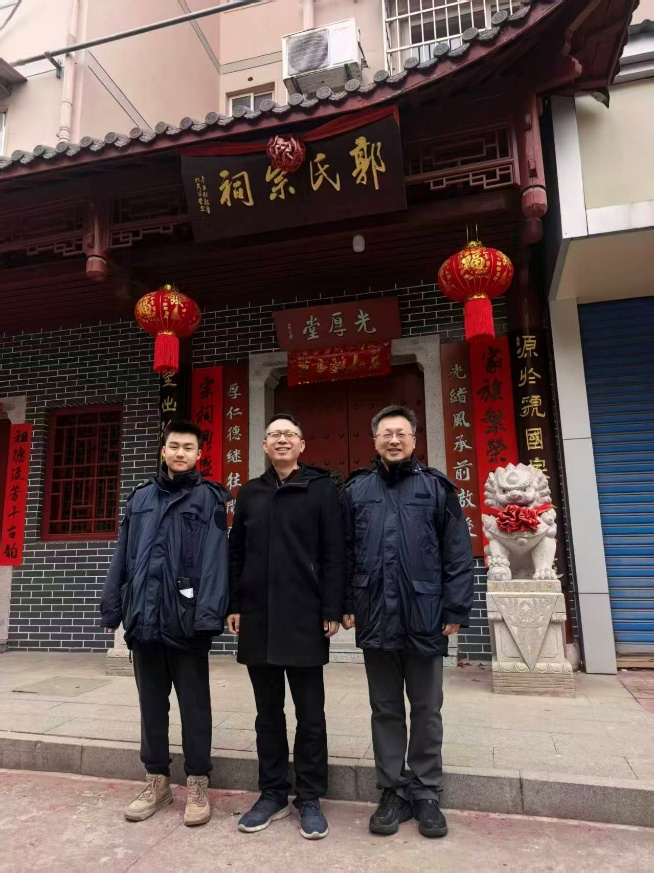
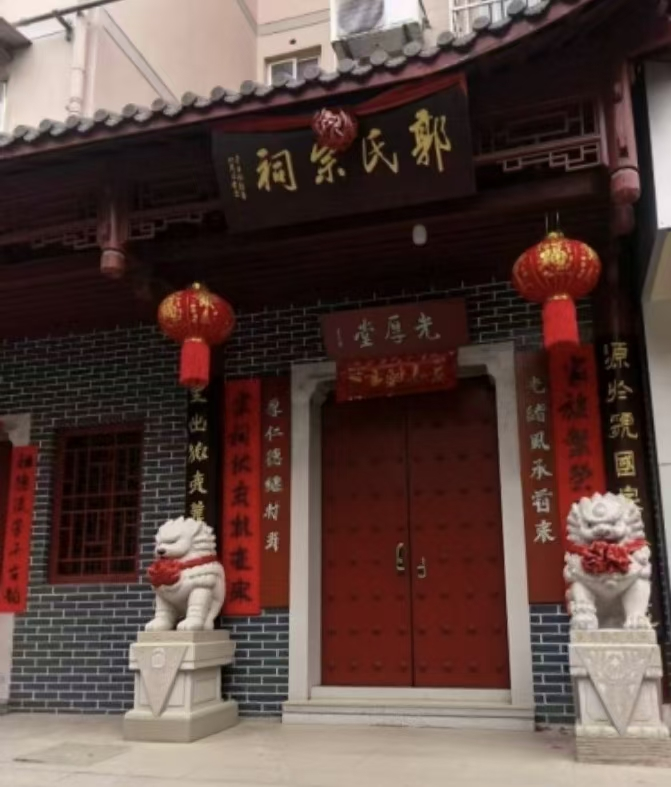
修复郭氏祠堂图片并重新生成

diff --git a/public/citang/guoshi-citang/index.html b/public/citang/guoshi-citang/index.html
@@ -84,7 +84,7 @@
 12. 您认为祠堂在现有功能基础上，面临怎样的发展问题，可以新增哪些功能或活动（如改善环境、功能转变、挖掘文化IP），推动祠堂未来的延续与发展？ 陈瑜对这个问题没有给出回答，或许这表示她比较认可现在的模式和祠堂的功能。 郭皓帆则认为，祠堂要想有未来，需要把它的价值——在这个时代（商业社会）体现为商业价值，捡起来。需要资本以及企业的介入，但具体模式他表示他并不清楚，但他认为广东已经有人在做类似的模式了。
 13. 您觉得祠堂存在的价值是什么？（乡村发展，乡村凝聚力，文化传承） 陈瑜认为祠堂存在具有文化传承的意义，这里更多指对祖先的认识与祭拜，也就是族谱的功能。 郭皓帆认为，祠堂对年轻人没有任何价值，对老年人可能有一种归属感。但通过对郭能俊和郭御风的采访，显然光厚堂的价值也仅限于聚齐一家人，增强家庭的凝聚力。
 14. （对老人）考虑到年轻人大多在外务工，您觉得祠堂未来能一直传承下去吗？您对于年轻人传承祠堂文化的期望是什么？/ (对年轻人)作为年轻人，您有没有意愿多回乡，多参加些祠堂活动？ 郭皓帆认为，祠堂可以一直传承下去，只不过规模会越来越小。不过，他也认为，只要祠堂转型成功（融入商业社会），祠堂肯定能一直存续。他表示，他并不愿意回老家参加祠堂活动。不过郭御风每年都会带郭皓帆回老家，也显示出了作为父亲的态度。 陈瑜则认为祠堂不一定能传承下去。她表示自己说自己忙不去祠堂只是一个借口，从自己的父辈到自己的孩子，这三代人的变动太大了。自己这些年走南闯北，和亲戚朋友联系甚少。她认为延续一个祠堂不如建一个微信群来得实在。
-15. 您觉得未来祠堂该怎样发展，你对于祠堂的功能作用有什么期望，您是否愿意为祠堂的修缮、传承出钱或出力吗？（您觉得您在祠堂未来发展中可以做些什么？） 郭皓帆认为祠堂未来不会有什么大的发展，也并不希望它能够发挥什么与现在不同的作用。不过，如果有任务交到他手上，他愿意承担这份责任的，也会把交给自己的任务认真完成。大体来说，就是他的长辈在做什么，他就会做些什么。陈瑜对此的回答差不多。"><meta property="og:locale" content="zh_cn"><meta property="og:type" content="article"><meta property="article:section" content="citang"><meta property="article:published_time" content="2026-11-14T00:00:00+00:00"><meta property="article:modified_time" content="2026-11-14T00:00:00+00:00"><meta property="og:image" content="https://citang-database.netlify.app/images/guoshi-v2.png"><meta name=twitter:card content="summary_large_image"><meta name=twitter:image content="https://citang-database.netlify.app/images/guoshi-v2.png"><meta name=twitter:title content="郭氏祠堂（光厚堂）"><meta name=twitter:description content="祠堂简介 光厚堂并无久远的历史，也并无重修的经历，于2021年修建完成。该祠堂由郭能俊主持，利用郭氏族谱（2011年新编）中的家族资源捐款修建而成。
+15. 您觉得未来祠堂该怎样发展，你对于祠堂的功能作用有什么期望，您是否愿意为祠堂的修缮、传承出钱或出力吗？（您觉得您在祠堂未来发展中可以做些什么？） 郭皓帆认为祠堂未来不会有什么大的发展，也并不希望它能够发挥什么与现在不同的作用。不过，如果有任务交到他手上，他愿意承担这份责任的，也会把交给自己的任务认真完成。大体来说，就是他的长辈在做什么，他就会做些什么。陈瑜对此的回答差不多。"><meta property="og:locale" content="zh_cn"><meta property="og:type" content="article"><meta property="article:section" content="citang"><meta property="article:published_time" content="2026-11-14T00:00:00+00:00"><meta property="article:modified_time" content="2026-11-14T00:00:00+00:00"><meta property="og:image" content="https://citang-database.netlify.app/images/guoshi-full.png"><meta name=twitter:card content="summary_large_image"><meta name=twitter:image content="https://citang-database.netlify.app/images/guoshi-full.png"><meta name=twitter:title content="郭氏祠堂（光厚堂）"><meta name=twitter:description content="祠堂简介 光厚堂并无久远的历史，也并无重修的经历，于2021年修建完成。该祠堂由郭能俊主持，利用郭氏族谱（2011年新编）中的家族资源捐款修建而成。
 祠堂修建的主要原因是由于家族庞大，过年拜年过于繁琐。为了在加强家族联系的同时，节省不必要的麻烦，家族成员决定修建光厚堂。祠堂选址在路边小区底商处，买下两个底商进行改造。在光厚堂修建后，周边陆续有吴家、罗家等家族祠堂修建。
 目前，家族成员在重要节日齐聚一堂，一方面进行放鞭炮、祭拜先祖郭子仪等活动，更重要的是加强家族成员间的联系，增强家族的凝聚力。祠堂目前主要功能是把家族人聚在一起，并无乡村议事、公共管理等功能。
 建筑与历史变迁 时间 事件 2021年 由郭能俊主持，动用族谱资源捐款，买下两个底商改造修建完成 2021年后 周边陆续有吴家、罗家等家族祠堂修建 采访记录 采访一 时间：2026年2月26日
@@ -105,12 +105,12 @@
 12. 您认为祠堂在现有功能基础上，面临怎样的发展问题，可以新增哪些功能或活动（如改善环境、功能转变、挖掘文化IP），推动祠堂未来的延续与发展？ 陈瑜对这个问题没有给出回答，或许这表示她比较认可现在的模式和祠堂的功能。 郭皓帆则认为，祠堂要想有未来，需要把它的价值——在这个时代（商业社会）体现为商业价值，捡起来。需要资本以及企业的介入，但具体模式他表示他并不清楚，但他认为广东已经有人在做类似的模式了。
 13. 您觉得祠堂存在的价值是什么？（乡村发展，乡村凝聚力，文化传承） 陈瑜认为祠堂存在具有文化传承的意义，这里更多指对祖先的认识与祭拜，也就是族谱的功能。 郭皓帆认为，祠堂对年轻人没有任何价值，对老年人可能有一种归属感。但通过对郭能俊和郭御风的采访，显然光厚堂的价值也仅限于聚齐一家人，增强家庭的凝聚力。
 14. （对老人）考虑到年轻人大多在外务工，您觉得祠堂未来能一直传承下去吗？您对于年轻人传承祠堂文化的期望是什么？/ (对年轻人)作为年轻人，您有没有意愿多回乡，多参加些祠堂活动？ 郭皓帆认为，祠堂可以一直传承下去，只不过规模会越来越小。不过，他也认为，只要祠堂转型成功（融入商业社会），祠堂肯定能一直存续。他表示，他并不愿意回老家参加祠堂活动。不过郭御风每年都会带郭皓帆回老家，也显示出了作为父亲的态度。 陈瑜则认为祠堂不一定能传承下去。她表示自己说自己忙不去祠堂只是一个借口，从自己的父辈到自己的孩子，这三代人的变动太大了。自己这些年走南闯北，和亲戚朋友联系甚少。她认为延续一个祠堂不如建一个微信群来得实在。
-15. 您觉得未来祠堂该怎样发展，你对于祠堂的功能作用有什么期望，您是否愿意为祠堂的修缮、传承出钱或出力吗？（您觉得您在祠堂未来发展中可以做些什么？） 郭皓帆认为祠堂未来不会有什么大的发展，也并不希望它能够发挥什么与现在不同的作用。不过，如果有任务交到他手上，他愿意承担这份责任的，也会把交给自己的任务认真完成。大体来说，就是他的长辈在做什么，他就会做些什么。陈瑜对此的回答差不多。"><script type=application/ld+json>{"@context":"https://schema.org","@type":"BreadcrumbList","itemListElement":[{"@type":"ListItem","position":1,"name":"Citangs","item":"https://citang-database.netlify.app/citang/"},{"@type":"ListItem","position":2,"name":"郭氏祠堂（光厚堂）","item":"https://citang-database.netlify.app/citang/guoshi-citang/"}]}</script><script type=application/ld+json>{"@context":"https://schema.org","@type":"BlogPosting","headline":"郭氏祠堂（光厚堂）","name":"郭氏祠堂（光厚堂）","description":"祠堂简介 光厚堂并无久远的历史，也并无重修的经历，于2021年修建完成。该祠堂由郭能俊主持，利用郭氏族谱（2011年新编）中的家族资源捐款修建而成。\n祠堂修建的主要原因是由于家族庞大，过年拜年过于繁琐。为了在加强家族联系的同时，节省不必要的麻烦，家族成员决定修建光厚堂。祠堂选址在路边小区底商处，买下两个底商进行改造。在光厚堂修建后，周边陆续有吴家、罗家等家族祠堂修建。\n目前，家族成员在重要节日齐聚一堂，一方面进行放鞭炮、祭拜先祖郭子仪等活动，更重要的是加强家族成员间的联系，增强家族的凝聚力。祠堂目前主要功能是把家族人聚在一起，并无乡村议事、公共管理等功能。\n建筑与历史变迁 时间 事件 2021年 由郭能俊主持，动用族谱资源捐款，买下两个底商改造修建完成 2021年后 周边陆续有吴家、罗家等家族祠堂修建 采访记录 采访一 时间：2026年2月26日\n地点：江西省九江市郭氏祠堂（光厚堂）\n采访者：郭雨乐\n受访者：郭能俊（祖父）、郭御风（父亲）、郭皓帆（孩子）、陈瑜（母亲）一家三代\n1. 您对这个祠堂的修建历史了解多少？（是否了解它的修建背景，修建时间，由谁主持修建，资金来源，是否有相关传说或老辈人口述记载？） 郭御风表示，祠堂修建主要是由于家族庞大，过年拜年过于繁琐，为了在加强家族联系的同时，节省不必要的麻烦，修建光厚堂。当时向民政报备，环节并不复杂，买下两个底商改造比较顺利。 郭能俊、郭御风父子对于这部分历史非常了解，在介绍时非常热情，希望家族的声望能够远扬。但郭皓帆对这一部分历史却不很了解，甚至比较抵触过年回老家的繁琐。在他的印象里，只有每年零星的几次祠堂祭祖活动，对于祠堂的修建资金以及修建原因等问题，可以说是一无所知。有趣的是，在采访过程中，年龄尚小的郭皓帆的表弟对家族历史表现出了浓厚的兴趣，但不知是因为他年龄尚小还是因为他来自外姓，郭能俊并不打算向他介绍郭家历史。\n2. 您了解这座祠堂的历史吗？是听他人讲述，还是通过其他渠道（书籍、网络等）知晓的？ （同第一题，长辈非常了解并主持修建，郭皓帆基本不了解）\n3. 早年祠堂的建筑原貌（布局、装饰等）及内部规矩是怎样的？ （光厚堂为2021年新建底商改造，无早年原貌）\n4. 这个祠堂过去功能是什么？主要会举行什么活动，（比如祭祖、族里的红白事），有之前办但现在不办了的活动吗？（以及为什么不办了呢）有没有让您记了一辈子的热闹场景或难忘的事儿？（祠堂活动带给你的最深刻文化记忆是什么？） （新建祠堂，无过去活动）\n5. 这个祠堂经历了怎样的变迁，是否有挪作他用（祠堂有没有被改成仓库、学堂等其他用途的情况），重修（现在祠堂的建筑外观、内部设施与以前比有什么变化）的情况？ 早些年，现在宗祠的所在地叫“郭家湾”，是郭姓聚居地。但随着时间的推移和改革开放等政策的颁布，人们已经分散在九江市的各个地区甚至外地。买下底商改造为祠堂后，周边也陆续建起了其他家族的祠堂。\n6. 目前祠堂还会办哪些活动？比如祭祖、节日聚会等，大概多久办一次？您平时愿意参与祠堂活动吗？ 祠堂目前仅在过年期间举办祭祖活动，但实际上的、更重要的目的是把一大家族的人聚在一起庆祝新年，进行放鞭炮、祭拜先祖郭子仪等活动。 对于郭能俊、郭御风父子，他们是很乐意参与的，实际上也是他们二位主持的祠堂修建和这些活动。但对于郭皓帆，对参与这些活动兴趣不大，更多的是被其父亲强迫参加。\n7. 祠堂目前承担着怎样的功能？祠堂在乡村集体议事、邻里关系联结、公共事务协调中的作用发生了哪些变化？现有保留的功能，对村民生活仍有哪些实际价值？ 祠堂目前主要功能是把家族人聚在一起，举行祭祖活动。除此之外，并无乡村议事、公共管理等功能。因为人们已经分散在各个地区甚至外地，所以现在祠堂并不存在对村民生活的价值，而只是对郭姓家族起到增强凝聚力的作用。\n8. 您是否了解祠堂的管理模式和条规？（由谁主持管理，宗祠规定） 祠堂的公约张贴在祠堂大门旁，内容除了对祠堂的物品保管、用电安全、清洁卫生等琐碎规定外，还有对宗亲过世设立灵位的规定。对于祠堂的日常管理，采用分月排班的方式，即每月由一名宗族成员进行管理。排班表张贴在祠堂内部。 值得注意的是，负责管理祠堂的均为老年人，这与年轻人大多在外务工有关。对这些信息，家族成员的了解情况与上面大同小异，郭皓帆仍几乎不了解。\n9. 您觉得祠堂对你来说，只是个宗族建筑，还是有着特别的意义？（有没有家族归属感、认同感，是否愿意主动去了解祠堂） 对于郭能俊和郭御风父子，他们很乐意参与并主持活动，希望家族声望远扬。而对于郭皓帆，则认为他并无归属感，主要源于从小在长沙、天津等多地上学，不止祠堂，乃至家乡他都并无归属感。对于祠堂本身他也没有兴趣进行了解。\n10. （对于管理人员，也可以问其他群体）祠堂目前仍有部分功能在运转，日常的基础维护（如建筑简易修缮、环境清理）、残留功能的组织由哪些主体负责？村里不同年龄群体参与祠堂相关事务的比例及形式（如特定活动参与、零星协助）如何？ 郭能俊表示，因为花销很小，所以并没有什么硬性规定。日常的清理和修缮主要由每个月的值班人员负责。由于值班人员均为老年群体，祠堂事务自然老年群体参与较多。\n11. 您觉得现在年轻人很少关注祠堂，对家史、族规不了解，主要是没兴趣、缺乏传播渠道，还是其他原因？ 陈瑜认为现在年轻人是因为没有兴趣才不关注祠堂。 郭皓帆则给出了相对更深层次的原因，他表示这源自于家族观念不适合年轻人的生活。对年轻人来说，这是没有价值的，且仅具有象征意义。\n12. 您认为祠堂在现有功能基础上，面临怎样的发展问题，可以新增哪些功能或活动（如改善环境、功能转变、挖掘文化IP），推动祠堂未来的延续与发展？ 陈瑜对这个问题没有给出回答，或许这表示她比较认可现在的模式和祠堂的功能。 郭皓帆则认为，祠堂要想有未来，需要把它的价值——在这个时代（商业社会）体现为商业价值，捡起来。需要资本以及企业的介入，但具体模式他表示他并不清楚，但他认为广东已经有人在做类似的模式了。\n13. 您觉得祠堂存在的价值是什么？（乡村发展，乡村凝聚力，文化传承） 陈瑜认为祠堂存在具有文化传承的意义，这里更多指对祖先的认识与祭拜，也就是族谱的功能。 郭皓帆认为，祠堂对年轻人没有任何价值，对老年人可能有一种归属感。但通过对郭能俊和郭御风的采访，显然光厚堂的价值也仅限于聚齐一家人，增强家庭的凝聚力。\n14. （对老人）考虑到年轻人大多在外务工，您觉得祠堂未来能一直传承下去吗？您对于年轻人传承祠堂文化的期望是什么？/ (对年轻人)作为年轻人，您有没有意愿多回乡，多参加些祠堂活动？ 郭皓帆认为，祠堂可以一直传承下去，只不过规模会越来越小。不过，他也认为，只要祠堂转型成功（融入商业社会），祠堂肯定能一直存续。他表示，他并不愿意回老家参加祠堂活动。不过郭御风每年都会带郭皓帆回老家，也显示出了作为父亲的态度。 陈瑜则认为祠堂不一定能传承下去。她表示自己说自己忙不去祠堂只是一个借口，从自己的父辈到自己的孩子，这三代人的变动太大了。自己这些年走南闯北，和亲戚朋友联系甚少。她认为延续一个祠堂不如建一个微信群来得实在。\n15. 您觉得未来祠堂该怎样发展，你对于祠堂的功能作用有什么期望，您是否愿意为祠堂的修缮、传承出钱或出力吗？（您觉得您在祠堂未来发展中可以做些什么？） 郭皓帆认为祠堂未来不会有什么大的发展，也并不希望它能够发挥什么与现在不同的作用。不过，如果有任务交到他手上，他愿意承担这份责任的，也会把交给自己的任务认真完成。大体来说，就是他的长辈在做什么，他就会做些什么。陈瑜对此的回答差不多。\n","keywords":[],"articleBody":"祠堂简介 光厚堂并无久远的历史，也并无重修的经历，于2021年修建完成。该祠堂由郭能俊主持，利用郭氏族谱（2011年新编）中的家族资源捐款修建而成。\n祠堂修建的主要原因是由于家族庞大，过年拜年过于繁琐。为了在加强家族联系的同时，节省不必要的麻烦，家族成员决定修建光厚堂。祠堂选址在路边小区底商处，买下两个底商进行改造。在光厚堂修建后，周边陆续有吴家、罗家等家族祠堂修建。\n目前，家族成员在重要节日齐聚一堂，一方面进行放鞭炮、祭拜先祖郭子仪等活动，更重要的是加强家族成员间的联系，增强家族的凝聚力。祠堂目前主要功能是把家族人聚在一起，并无乡村议事、公共管理等功能。\n建筑与历史变迁 时间 事件 2021年 由郭能俊主持，动用族谱资源捐款，买下两个底商改造修建完成 2021年后 周边陆续有吴家、罗家等家族祠堂修建 采访记录 采访一 时间：2026年2月26日\n地点：江西省九江市郭氏祠堂（光厚堂）\n采访者：郭雨乐\n受访者：郭能俊（祖父）、郭御风（父亲）、郭皓帆（孩子）、陈瑜（母亲）一家三代\n1. 您对这个祠堂的修建历史了解多少？（是否了解它的修建背景，修建时间，由谁主持修建，资金来源，是否有相关传说或老辈人口述记载？） 郭御风表示，祠堂修建主要是由于家族庞大，过年拜年过于繁琐，为了在加强家族联系的同时，节省不必要的麻烦，修建光厚堂。当时向民政报备，环节并不复杂，买下两个底商改造比较顺利。 郭能俊、郭御风父子对于这部分历史非常了解，在介绍时非常热情，希望家族的声望能够远扬。但郭皓帆对这一部分历史却不很了解，甚至比较抵触过年回老家的繁琐。在他的印象里，只有每年零星的几次祠堂祭祖活动，对于祠堂的修建资金以及修建原因等问题，可以说是一无所知。有趣的是，在采访过程中，年龄尚小的郭皓帆的表弟对家族历史表现出了浓厚的兴趣，但不知是因为他年龄尚小还是因为他来自外姓，郭能俊并不打算向他介绍郭家历史。\n2. 您了解这座祠堂的历史吗？是听他人讲述，还是通过其他渠道（书籍、网络等）知晓的？ （同第一题，长辈非常了解并主持修建，郭皓帆基本不了解）\n3. 早年祠堂的建筑原貌（布局、装饰等）及内部规矩是怎样的？ （光厚堂为2021年新建底商改造，无早年原貌）\n4. 这个祠堂过去功能是什么？主要会举行什么活动，（比如祭祖、族里的红白事），有之前办但现在不办了的活动吗？（以及为什么不办了呢）有没有让您记了一辈子的热闹场景或难忘的事儿？（祠堂活动带给你的最深刻文化记忆是什么？） （新建祠堂，无过去活动）\n5. 这个祠堂经历了怎样的变迁，是否有挪作他用（祠堂有没有被改成仓库、学堂等其他用途的情况），重修（现在祠堂的建筑外观、内部设施与以前比有什么变化）的情况？ 早些年，现在宗祠的所在地叫“郭家湾”，是郭姓聚居地。但随着时间的推移和改革开放等政策的颁布，人们已经分散在九江市的各个地区甚至外地。买下底商改造为祠堂后，周边也陆续建起了其他家族的祠堂。\n6. 目前祠堂还会办哪些活动？比如祭祖、节日聚会等，大概多久办一次？您平时愿意参与祠堂活动吗？ 祠堂目前仅在过年期间举办祭祖活动，但实际上的、更重要的目的是把一大家族的人聚在一起庆祝新年，进行放鞭炮、祭拜先祖郭子仪等活动。 对于郭能俊、郭御风父子，他们是很乐意参与的，实际上也是他们二位主持的祠堂修建和这些活动。但对于郭皓帆，对参与这些活动兴趣不大，更多的是被其父亲强迫参加。\n7. 祠堂目前承担着怎样的功能？祠堂在乡村集体议事、邻里关系联结、公共事务协调中的作用发生了哪些变化？现有保留的功能，对村民生活仍有哪些实际价值？ 祠堂目前主要功能是把家族人聚在一起，举行祭祖活动。除此之外，并无乡村议事、公共管理等功能。因为人们已经分散在各个地区甚至外地，所以现在祠堂并不存在对村民生活的价值，而只是对郭姓家族起到增强凝聚力的作用。\n8. 您是否了解祠堂的管理模式和条规？（由谁主持管理，宗祠规定） 祠堂的公约张贴在祠堂大门旁，内容除了对祠堂的物品保管、用电安全、清洁卫生等琐碎规定外，还有对宗亲过世设立灵位的规定。对于祠堂的日常管理，采用分月排班的方式，即每月由一名宗族成员进行管理。排班表张贴在祠堂内部。 值得注意的是，负责管理祠堂的均为老年人，这与年轻人大多在外务工有关。对这些信息，家族成员的了解情况与上面大同小异，郭皓帆仍几乎不了解。\n9. 您觉得祠堂对你来说，只是个宗族建筑，还是有着特别的意义？（有没有家族归属感、认同感，是否愿意主动去了解祠堂） 对于郭能俊和郭御风父子，他们很乐意参与并主持活动，希望家族声望远扬。而对于郭皓帆，则认为他并无归属感，主要源于从小在长沙、天津等多地上学，不止祠堂，乃至家乡他都并无归属感。对于祠堂本身他也没有兴趣进行了解。\n10. （对于管理人员，也可以问其他群体）祠堂目前仍有部分功能在运转，日常的基础维护（如建筑简易修缮、环境清理）、残留功能的组织由哪些主体负责？村里不同年龄群体参与祠堂相关事务的比例及形式（如特定活动参与、零星协助）如何？ 郭能俊表示，因为花销很小，所以并没有什么硬性规定。日常的清理和修缮主要由每个月的值班人员负责。由于值班人员均为老年群体，祠堂事务自然老年群体参与较多。\n11. 您觉得现在年轻人很少关注祠堂，对家史、族规不了解，主要是没兴趣、缺乏传播渠道，还是其他原因？ 陈瑜认为现在年轻人是因为没有兴趣才不关注祠堂。 郭皓帆则给出了相对更深层次的原因，他表示这源自于家族观念不适合年轻人的生活。对年轻人来说，这是没有价值的，且仅具有象征意义。\n12. 您认为祠堂在现有功能基础上，面临怎样的发展问题，可以新增哪些功能或活动（如改善环境、功能转变、挖掘文化IP），推动祠堂未来的延续与发展？ 陈瑜对这个问题没有给出回答，或许这表示她比较认可现在的模式和祠堂的功能。 郭皓帆则认为，祠堂要想有未来，需要把它的价值——在这个时代（商业社会）体现为商业价值，捡起来。需要资本以及企业的介入，但具体模式他表示他并不清楚，但他认为广东已经有人在做类似的模式了。\n13. 您觉得祠堂存在的价值是什么？（乡村发展，乡村凝聚力，文化传承） 陈瑜认为祠堂存在具有文化传承的意义，这里更多指对祖先的认识与祭拜，也就是族谱的功能。 郭皓帆认为，祠堂对年轻人没有任何价值，对老年人可能有一种归属感。但通过对郭能俊和郭御风的采访，显然光厚堂的价值也仅限于聚齐一家人，增强家庭的凝聚力。\n14. （对老人）考虑到年轻人大多在外务工，您觉得祠堂未来能一直传承下去吗？您对于年轻人传承祠堂文化的期望是什么？/ (对年轻人)作为年轻人，您有没有意愿多回乡，多参加些祠堂活动？ 郭皓帆认为，祠堂可以一直传承下去，只不过规模会越来越小。不过，他也认为，只要祠堂转型成功（融入商业社会），祠堂肯定能一直存续。他表示，他并不愿意回老家参加祠堂活动。不过郭御风每年都会带郭皓帆回老家，也显示出了作为父亲的态度。 陈瑜则认为祠堂不一定能传承下去。她表示自己说自己忙不去祠堂只是一个借口，从自己的父辈到自己的孩子，这三代人的变动太大了。自己这些年走南闯北，和亲戚朋友联系甚少。她认为延续一个祠堂不如建一个微信群来得实在。\n15. 您觉得未来祠堂该怎样发展，你对于祠堂的功能作用有什么期望，您是否愿意为祠堂的修缮、传承出钱或出力吗？（您觉得您在祠堂未来发展中可以做些什么？） 郭皓帆认为祠堂未来不会有什么大的发展，也并不希望它能够发挥什么与现在不同的作用。不过，如果有任务交到他手上，他愿意承担这份责任的，也会把交给自己的任务认真完成。大体来说，就是他的长辈在做什么，他就会做些什么。陈瑜对此的回答差不多。\n","wordCount":"70","inLanguage":"en","image":"https://citang-database.netlify.app/images/guoshi-v2.png","datePublished":"2026-11-14T00:00:00Z","dateModified":"2026-11-14T00:00:00Z","mainEntityOfPage":{"@type":"WebPage","@id":"https://citang-database.netlify.app/citang/guoshi-citang/"},"publisher":{"@type":"Organization","name":"祠堂信息资源库","logo":{"@type":"ImageObject","url":"https://citang-database.netlify.app/favicon.ico"}}}</script></head><body id=top><header class=header><nav class=header-nav><div class=logo><a href=https://citang-database.netlify.app/ accesskey=h title="祠堂信息资源库 (Alt + H)">祠堂信息资源库</a><div class=logo-switches><button id=theme-toggle class=theme-toggle accesskey=t title="(Alt + T)" aria-label="Toggle theme">
+15. 您觉得未来祠堂该怎样发展，你对于祠堂的功能作用有什么期望，您是否愿意为祠堂的修缮、传承出钱或出力吗？（您觉得您在祠堂未来发展中可以做些什么？） 郭皓帆认为祠堂未来不会有什么大的发展，也并不希望它能够发挥什么与现在不同的作用。不过，如果有任务交到他手上，他愿意承担这份责任的，也会把交给自己的任务认真完成。大体来说，就是他的长辈在做什么，他就会做些什么。陈瑜对此的回答差不多。"><script type=application/ld+json>{"@context":"https://schema.org","@type":"BreadcrumbList","itemListElement":[{"@type":"ListItem","position":1,"name":"Citangs","item":"https://citang-database.netlify.app/citang/"},{"@type":"ListItem","position":2,"name":"郭氏祠堂（光厚堂）","item":"https://citang-database.netlify.app/citang/guoshi-citang/"}]}</script><script type=application/ld+json>{"@context":"https://schema.org","@type":"BlogPosting","headline":"郭氏祠堂（光厚堂）","name":"郭氏祠堂（光厚堂）","description":"祠堂简介 光厚堂并无久远的历史，也并无重修的经历，于2021年修建完成。该祠堂由郭能俊主持，利用郭氏族谱（2011年新编）中的家族资源捐款修建而成。\n祠堂修建的主要原因是由于家族庞大，过年拜年过于繁琐。为了在加强家族联系的同时，节省不必要的麻烦，家族成员决定修建光厚堂。祠堂选址在路边小区底商处，买下两个底商进行改造。在光厚堂修建后，周边陆续有吴家、罗家等家族祠堂修建。\n目前，家族成员在重要节日齐聚一堂，一方面进行放鞭炮、祭拜先祖郭子仪等活动，更重要的是加强家族成员间的联系，增强家族的凝聚力。祠堂目前主要功能是把家族人聚在一起，并无乡村议事、公共管理等功能。\n建筑与历史变迁 时间 事件 2021年 由郭能俊主持，动用族谱资源捐款，买下两个底商改造修建完成 2021年后 周边陆续有吴家、罗家等家族祠堂修建 采访记录 采访一 时间：2026年2月26日\n地点：江西省九江市郭氏祠堂（光厚堂）\n采访者：郭雨乐\n受访者：郭能俊（祖父）、郭御风（父亲）、郭皓帆（孩子）、陈瑜（母亲）一家三代\n1. 您对这个祠堂的修建历史了解多少？（是否了解它的修建背景，修建时间，由谁主持修建，资金来源，是否有相关传说或老辈人口述记载？） 郭御风表示，祠堂修建主要是由于家族庞大，过年拜年过于繁琐，为了在加强家族联系的同时，节省不必要的麻烦，修建光厚堂。当时向民政报备，环节并不复杂，买下两个底商改造比较顺利。 郭能俊、郭御风父子对于这部分历史非常了解，在介绍时非常热情，希望家族的声望能够远扬。但郭皓帆对这一部分历史却不很了解，甚至比较抵触过年回老家的繁琐。在他的印象里，只有每年零星的几次祠堂祭祖活动，对于祠堂的修建资金以及修建原因等问题，可以说是一无所知。有趣的是，在采访过程中，年龄尚小的郭皓帆的表弟对家族历史表现出了浓厚的兴趣，但不知是因为他年龄尚小还是因为他来自外姓，郭能俊并不打算向他介绍郭家历史。\n2. 您了解这座祠堂的历史吗？是听他人讲述，还是通过其他渠道（书籍、网络等）知晓的？ （同第一题，长辈非常了解并主持修建，郭皓帆基本不了解）\n3. 早年祠堂的建筑原貌（布局、装饰等）及内部规矩是怎样的？ （光厚堂为2021年新建底商改造，无早年原貌）\n4. 这个祠堂过去功能是什么？主要会举行什么活动，（比如祭祖、族里的红白事），有之前办但现在不办了的活动吗？（以及为什么不办了呢）有没有让您记了一辈子的热闹场景或难忘的事儿？（祠堂活动带给你的最深刻文化记忆是什么？） （新建祠堂，无过去活动）\n5. 这个祠堂经历了怎样的变迁，是否有挪作他用（祠堂有没有被改成仓库、学堂等其他用途的情况），重修（现在祠堂的建筑外观、内部设施与以前比有什么变化）的情况？ 早些年，现在宗祠的所在地叫“郭家湾”，是郭姓聚居地。但随着时间的推移和改革开放等政策的颁布，人们已经分散在九江市的各个地区甚至外地。买下底商改造为祠堂后，周边也陆续建起了其他家族的祠堂。\n6. 目前祠堂还会办哪些活动？比如祭祖、节日聚会等，大概多久办一次？您平时愿意参与祠堂活动吗？ 祠堂目前仅在过年期间举办祭祖活动，但实际上的、更重要的目的是把一大家族的人聚在一起庆祝新年，进行放鞭炮、祭拜先祖郭子仪等活动。 对于郭能俊、郭御风父子，他们是很乐意参与的，实际上也是他们二位主持的祠堂修建和这些活动。但对于郭皓帆，对参与这些活动兴趣不大，更多的是被其父亲强迫参加。\n7. 祠堂目前承担着怎样的功能？祠堂在乡村集体议事、邻里关系联结、公共事务协调中的作用发生了哪些变化？现有保留的功能，对村民生活仍有哪些实际价值？ 祠堂目前主要功能是把家族人聚在一起，举行祭祖活动。除此之外，并无乡村议事、公共管理等功能。因为人们已经分散在各个地区甚至外地，所以现在祠堂并不存在对村民生活的价值，而只是对郭姓家族起到增强凝聚力的作用。\n8. 您是否了解祠堂的管理模式和条规？（由谁主持管理，宗祠规定） 祠堂的公约张贴在祠堂大门旁，内容除了对祠堂的物品保管、用电安全、清洁卫生等琐碎规定外，还有对宗亲过世设立灵位的规定。对于祠堂的日常管理，采用分月排班的方式，即每月由一名宗族成员进行管理。排班表张贴在祠堂内部。 值得注意的是，负责管理祠堂的均为老年人，这与年轻人大多在外务工有关。对这些信息，家族成员的了解情况与上面大同小异，郭皓帆仍几乎不了解。\n9. 您觉得祠堂对你来说，只是个宗族建筑，还是有着特别的意义？（有没有家族归属感、认同感，是否愿意主动去了解祠堂） 对于郭能俊和郭御风父子，他们很乐意参与并主持活动，希望家族声望远扬。而对于郭皓帆，则认为他并无归属感，主要源于从小在长沙、天津等多地上学，不止祠堂，乃至家乡他都并无归属感。对于祠堂本身他也没有兴趣进行了解。\n10. （对于管理人员，也可以问其他群体）祠堂目前仍有部分功能在运转，日常的基础维护（如建筑简易修缮、环境清理）、残留功能的组织由哪些主体负责？村里不同年龄群体参与祠堂相关事务的比例及形式（如特定活动参与、零星协助）如何？ 郭能俊表示，因为花销很小，所以并没有什么硬性规定。日常的清理和修缮主要由每个月的值班人员负责。由于值班人员均为老年群体，祠堂事务自然老年群体参与较多。\n11. 您觉得现在年轻人很少关注祠堂，对家史、族规不了解，主要是没兴趣、缺乏传播渠道，还是其他原因？ 陈瑜认为现在年轻人是因为没有兴趣才不关注祠堂。 郭皓帆则给出了相对更深层次的原因，他表示这源自于家族观念不适合年轻人的生活。对年轻人来说，这是没有价值的，且仅具有象征意义。\n12. 您认为祠堂在现有功能基础上，面临怎样的发展问题，可以新增哪些功能或活动（如改善环境、功能转变、挖掘文化IP），推动祠堂未来的延续与发展？ 陈瑜对这个问题没有给出回答，或许这表示她比较认可现在的模式和祠堂的功能。 郭皓帆则认为，祠堂要想有未来，需要把它的价值——在这个时代（商业社会）体现为商业价值，捡起来。需要资本以及企业的介入，但具体模式他表示他并不清楚，但他认为广东已经有人在做类似的模式了。\n13. 您觉得祠堂存在的价值是什么？（乡村发展，乡村凝聚力，文化传承） 陈瑜认为祠堂存在具有文化传承的意义，这里更多指对祖先的认识与祭拜，也就是族谱的功能。 郭皓帆认为，祠堂对年轻人没有任何价值，对老年人可能有一种归属感。但通过对郭能俊和郭御风的采访，显然光厚堂的价值也仅限于聚齐一家人，增强家庭的凝聚力。\n14. （对老人）考虑到年轻人大多在外务工，您觉得祠堂未来能一直传承下去吗？您对于年轻人传承祠堂文化的期望是什么？/ (对年轻人)作为年轻人，您有没有意愿多回乡，多参加些祠堂活动？ 郭皓帆认为，祠堂可以一直传承下去，只不过规模会越来越小。不过，他也认为，只要祠堂转型成功（融入商业社会），祠堂肯定能一直存续。他表示，他并不愿意回老家参加祠堂活动。不过郭御风每年都会带郭皓帆回老家，也显示出了作为父亲的态度。 陈瑜则认为祠堂不一定能传承下去。她表示自己说自己忙不去祠堂只是一个借口，从自己的父辈到自己的孩子，这三代人的变动太大了。自己这些年走南闯北，和亲戚朋友联系甚少。她认为延续一个祠堂不如建一个微信群来得实在。\n15. 您觉得未来祠堂该怎样发展，你对于祠堂的功能作用有什么期望，您是否愿意为祠堂的修缮、传承出钱或出力吗？（您觉得您在祠堂未来发展中可以做些什么？） 郭皓帆认为祠堂未来不会有什么大的发展，也并不希望它能够发挥什么与现在不同的作用。不过，如果有任务交到他手上，他愿意承担这份责任的，也会把交给自己的任务认真完成。大体来说，就是他的长辈在做什么，他就会做些什么。陈瑜对此的回答差不多。\n","keywords":[],"articleBody":"祠堂简介 光厚堂并无久远的历史，也并无重修的经历，于2021年修建完成。该祠堂由郭能俊主持，利用郭氏族谱（2011年新编）中的家族资源捐款修建而成。\n祠堂修建的主要原因是由于家族庞大，过年拜年过于繁琐。为了在加强家族联系的同时，节省不必要的麻烦，家族成员决定修建光厚堂。祠堂选址在路边小区底商处，买下两个底商进行改造。在光厚堂修建后，周边陆续有吴家、罗家等家族祠堂修建。\n目前，家族成员在重要节日齐聚一堂，一方面进行放鞭炮、祭拜先祖郭子仪等活动，更重要的是加强家族成员间的联系，增强家族的凝聚力。祠堂目前主要功能是把家族人聚在一起，并无乡村议事、公共管理等功能。\n建筑与历史变迁 时间 事件 2021年 由郭能俊主持，动用族谱资源捐款，买下两个底商改造修建完成 2021年后 周边陆续有吴家、罗家等家族祠堂修建 采访记录 采访一 时间：2026年2月26日\n地点：江西省九江市郭氏祠堂（光厚堂）\n采访者：郭雨乐\n受访者：郭能俊（祖父）、郭御风（父亲）、郭皓帆（孩子）、陈瑜（母亲）一家三代\n1. 您对这个祠堂的修建历史了解多少？（是否了解它的修建背景，修建时间，由谁主持修建，资金来源，是否有相关传说或老辈人口述记载？） 郭御风表示，祠堂修建主要是由于家族庞大，过年拜年过于繁琐，为了在加强家族联系的同时，节省不必要的麻烦，修建光厚堂。当时向民政报备，环节并不复杂，买下两个底商改造比较顺利。 郭能俊、郭御风父子对于这部分历史非常了解，在介绍时非常热情，希望家族的声望能够远扬。但郭皓帆对这一部分历史却不很了解，甚至比较抵触过年回老家的繁琐。在他的印象里，只有每年零星的几次祠堂祭祖活动，对于祠堂的修建资金以及修建原因等问题，可以说是一无所知。有趣的是，在采访过程中，年龄尚小的郭皓帆的表弟对家族历史表现出了浓厚的兴趣，但不知是因为他年龄尚小还是因为他来自外姓，郭能俊并不打算向他介绍郭家历史。\n2. 您了解这座祠堂的历史吗？是听他人讲述，还是通过其他渠道（书籍、网络等）知晓的？ （同第一题，长辈非常了解并主持修建，郭皓帆基本不了解）\n3. 早年祠堂的建筑原貌（布局、装饰等）及内部规矩是怎样的？ （光厚堂为2021年新建底商改造，无早年原貌）\n4. 这个祠堂过去功能是什么？主要会举行什么活动，（比如祭祖、族里的红白事），有之前办但现在不办了的活动吗？（以及为什么不办了呢）有没有让您记了一辈子的热闹场景或难忘的事儿？（祠堂活动带给你的最深刻文化记忆是什么？） （新建祠堂，无过去活动）\n5. 这个祠堂经历了怎样的变迁，是否有挪作他用（祠堂有没有被改成仓库、学堂等其他用途的情况），重修（现在祠堂的建筑外观、内部设施与以前比有什么变化）的情况？ 早些年，现在宗祠的所在地叫“郭家湾”，是郭姓聚居地。但随着时间的推移和改革开放等政策的颁布，人们已经分散在九江市的各个地区甚至外地。买下底商改造为祠堂后，周边也陆续建起了其他家族的祠堂。\n6. 目前祠堂还会办哪些活动？比如祭祖、节日聚会等，大概多久办一次？您平时愿意参与祠堂活动吗？ 祠堂目前仅在过年期间举办祭祖活动，但实际上的、更重要的目的是把一大家族的人聚在一起庆祝新年，进行放鞭炮、祭拜先祖郭子仪等活动。 对于郭能俊、郭御风父子，他们是很乐意参与的，实际上也是他们二位主持的祠堂修建和这些活动。但对于郭皓帆，对参与这些活动兴趣不大，更多的是被其父亲强迫参加。\n7. 祠堂目前承担着怎样的功能？祠堂在乡村集体议事、邻里关系联结、公共事务协调中的作用发生了哪些变化？现有保留的功能，对村民生活仍有哪些实际价值？ 祠堂目前主要功能是把家族人聚在一起，举行祭祖活动。除此之外，并无乡村议事、公共管理等功能。因为人们已经分散在各个地区甚至外地，所以现在祠堂并不存在对村民生活的价值，而只是对郭姓家族起到增强凝聚力的作用。\n8. 您是否了解祠堂的管理模式和条规？（由谁主持管理，宗祠规定） 祠堂的公约张贴在祠堂大门旁，内容除了对祠堂的物品保管、用电安全、清洁卫生等琐碎规定外，还有对宗亲过世设立灵位的规定。对于祠堂的日常管理，采用分月排班的方式，即每月由一名宗族成员进行管理。排班表张贴在祠堂内部。 值得注意的是，负责管理祠堂的均为老年人，这与年轻人大多在外务工有关。对这些信息，家族成员的了解情况与上面大同小异，郭皓帆仍几乎不了解。\n9. 您觉得祠堂对你来说，只是个宗族建筑，还是有着特别的意义？（有没有家族归属感、认同感，是否愿意主动去了解祠堂） 对于郭能俊和郭御风父子，他们很乐意参与并主持活动，希望家族声望远扬。而对于郭皓帆，则认为他并无归属感，主要源于从小在长沙、天津等多地上学，不止祠堂，乃至家乡他都并无归属感。对于祠堂本身他也没有兴趣进行了解。\n10. （对于管理人员，也可以问其他群体）祠堂目前仍有部分功能在运转，日常的基础维护（如建筑简易修缮、环境清理）、残留功能的组织由哪些主体负责？村里不同年龄群体参与祠堂相关事务的比例及形式（如特定活动参与、零星协助）如何？ 郭能俊表示，因为花销很小，所以并没有什么硬性规定。日常的清理和修缮主要由每个月的值班人员负责。由于值班人员均为老年群体，祠堂事务自然老年群体参与较多。\n11. 您觉得现在年轻人很少关注祠堂，对家史、族规不了解，主要是没兴趣、缺乏传播渠道，还是其他原因？ 陈瑜认为现在年轻人是因为没有兴趣才不关注祠堂。 郭皓帆则给出了相对更深层次的原因，他表示这源自于家族观念不适合年轻人的生活。对年轻人来说，这是没有价值的，且仅具有象征意义。\n12. 您认为祠堂在现有功能基础上，面临怎样的发展问题，可以新增哪些功能或活动（如改善环境、功能转变、挖掘文化IP），推动祠堂未来的延续与发展？ 陈瑜对这个问题没有给出回答，或许这表示她比较认可现在的模式和祠堂的功能。 郭皓帆则认为，祠堂要想有未来，需要把它的价值——在这个时代（商业社会）体现为商业价值，捡起来。需要资本以及企业的介入，但具体模式他表示他并不清楚，但他认为广东已经有人在做类似的模式了。\n13. 您觉得祠堂存在的价值是什么？（乡村发展，乡村凝聚力，文化传承） 陈瑜认为祠堂存在具有文化传承的意义，这里更多指对祖先的认识与祭拜，也就是族谱的功能。 郭皓帆认为，祠堂对年轻人没有任何价值，对老年人可能有一种归属感。但通过对郭能俊和郭御风的采访，显然光厚堂的价值也仅限于聚齐一家人，增强家庭的凝聚力。\n14. （对老人）考虑到年轻人大多在外务工，您觉得祠堂未来能一直传承下去吗？您对于年轻人传承祠堂文化的期望是什么？/ (对年轻人)作为年轻人，您有没有意愿多回乡，多参加些祠堂活动？ 郭皓帆认为，祠堂可以一直传承下去，只不过规模会越来越小。不过，他也认为，只要祠堂转型成功（融入商业社会），祠堂肯定能一直存续。他表示，他并不愿意回老家参加祠堂活动。不过郭御风每年都会带郭皓帆回老家，也显示出了作为父亲的态度。 陈瑜则认为祠堂不一定能传承下去。她表示自己说自己忙不去祠堂只是一个借口，从自己的父辈到自己的孩子，这三代人的变动太大了。自己这些年走南闯北，和亲戚朋友联系甚少。她认为延续一个祠堂不如建一个微信群来得实在。\n15. 您觉得未来祠堂该怎样发展，你对于祠堂的功能作用有什么期望，您是否愿意为祠堂的修缮、传承出钱或出力吗？（您觉得您在祠堂未来发展中可以做些什么？） 郭皓帆认为祠堂未来不会有什么大的发展，也并不希望它能够发挥什么与现在不同的作用。不过，如果有任务交到他手上，他愿意承担这份责任的，也会把交给自己的任务认真完成。大体来说，就是他的长辈在做什么，他就会做些什么。陈瑜对此的回答差不多。\n","wordCount":"70","inLanguage":"en","image":"https://citang-database.netlify.app/images/guoshi-full.png","datePublished":"2026-11-14T00:00:00Z","dateModified":"2026-11-14T00:00:00Z","mainEntityOfPage":{"@type":"WebPage","@id":"https://citang-database.netlify.app/citang/guoshi-citang/"},"publisher":{"@type":"Organization","name":"祠堂信息资源库","logo":{"@type":"ImageObject","url":"https://citang-database.netlify.app/favicon.ico"}}}</script></head><body id=top><header class=header><nav class=header-nav><div class=logo><a href=https://citang-database.netlify.app/ accesskey=h title="祠堂信息资源库 (Alt + H)">祠堂信息资源库</a><div class=logo-switches><button id=theme-toggle class=theme-toggle accesskey=t title="(Alt + T)" aria-label="Toggle theme">
 <svg class="moon" width="17" height="17" viewBox="0 0 24 24" fill="none" stroke="currentColor" stroke-width="2" stroke-linecap="round" stroke-linejoin="round"><path d="M21 12.79A9 9 0 1111.21 3 7 7 0 0021 12.79z"/></svg>
 <svg class="sun" width="17" height="17" viewBox="0 0 24 24" fill="none" stroke="currentColor" stroke-width="2" stroke-linecap="round" stroke-linejoin="round"><circle cx="12" cy="12" r="5"/><line x1="12" y1="1" x2="12" y2="3"/><line x1="12" y1="21" x2="12" y2="23"/><line x1="4.22" y1="4.22" x2="5.64" y2="5.64"/><line x1="18.36" y1="18.36" x2="19.78" y2="19.78"/><line x1="1" y1="12" x2="3" y2="12"/><line x1="21" y1="12" x2="23" y2="12"/><line x1="4.22" y1="19.78" x2="5.64" y2="18.36"/><line x1="18.36" y1="5.64" x2="19.78" y2="4.22"/></svg></button></div></div><ul id=menu class=menu></ul></nav></header><main class=main><article class=post-single><header class=post-header><nav class=breadcrumbs role=navigation aria-label=Breadcrumb><a href=/>Home</a>
 <svg viewBox="0 0 24 24" fill="none" stroke="currentColor" stroke-width="2" stroke-linecap="round" stroke-linejoin="round" class="feather feather-chevron-right"><polyline points="9 18 15 12 9 6"/></svg>
 <a href=/citang/>Citangs</a>
-<svg viewBox="0 0 24 24" fill="none" stroke="currentColor" stroke-width="2" stroke-linecap="round" stroke-linejoin="round" class="feather feather-chevron-right"><polyline points="9 18 15 12 9 6"/></svg></nav><h1 class="post-title entry-hint-parent">郭氏祠堂（光厚堂）</h1><div class=post-meta><span title='2026-11-14 00:00:00 +0000 UTC'>November 14, 2026</span>&nbsp;·&nbsp;<span>1 min</span></div></header><figure class=entry-cover><img loading=eager src=https://citang-database.netlify.app/images/guoshi-v2.png alt=郭氏祠堂（光厚堂）></figure><div class="post-content md-content"><h2 id=祠堂简介>祠堂简介<a hidden class=anchor aria-hidden=true href=#祠堂简介>#</a></h2><p>光厚堂并无久远的历史，也并无重修的经历，于2021年修建完成。该祠堂由郭能俊主持，利用郭氏族谱（2011年新编）中的家族资源捐款修建而成。</p><p>祠堂修建的主要原因是由于家族庞大，过年拜年过于繁琐。为了在加强家族联系的同时，节省不必要的麻烦，家族成员决定修建光厚堂。祠堂选址在路边小区底商处，买下两个底商进行改造。在光厚堂修建后，周边陆续有吴家、罗家等家族祠堂修建。</p><p>目前，家族成员在重要节日齐聚一堂，一方面进行放鞭炮、祭拜先祖郭子仪等活动，更重要的是加强家族成员间的联系，增强家族的凝聚力。祠堂目前主要功能是把家族人聚在一起，并无乡村议事、公共管理等功能。</p><h2 id=建筑与历史变迁>建筑与历史变迁<a hidden class=anchor aria-hidden=true href=#建筑与历史变迁>#</a></h2><table><thead><tr><th style=text-align:left>时间</th><th style=text-align:left>事件</th></tr></thead><tbody><tr><td style=text-align:left>2021年</td><td style=text-align:left>由郭能俊主持，动用族谱资源捐款，买下两个底商改造修建完成</td></tr><tr><td style=text-align:left>2021年后</td><td style=text-align:left>周边陆续有吴家、罗家等家族祠堂修建</td></tr></tbody></table><h2 id=采访记录>采访记录<a hidden class=anchor aria-hidden=true href=#采访记录>#</a></h2><h3 id=采访一>采访一<a hidden class=anchor aria-hidden=true href=#采访一>#</a></h3><p><strong>时间</strong>：2026年2月26日<br><strong>地点</strong>：江西省九江市郭氏祠堂（光厚堂）<br><strong>采访者</strong>：郭雨乐<br><strong>受访者</strong>：郭能俊（祖父）、郭御风（父亲）、郭皓帆（孩子）、陈瑜（母亲）一家三代</p><h4 id=1-您对这个祠堂的修建历史了解多少是否了解它的修建背景修建时间由谁主持修建资金来源是否有相关传说或老辈人口述记载>1. 您对这个祠堂的修建历史了解多少？（是否了解它的修建背景，修建时间，由谁主持修建，资金来源，是否有相关传说或老辈人口述记载？）<a hidden class=anchor aria-hidden=true href=#1-您对这个祠堂的修建历史了解多少是否了解它的修建背景修建时间由谁主持修建资金来源是否有相关传说或老辈人口述记载>#</a></h4><p><strong>郭御风表示</strong>，祠堂修建主要是由于家族庞大，过年拜年过于繁琐，为了在加强家族联系的同时，节省不必要的麻烦，修建光厚堂。当时向民政报备，环节并不复杂，买下两个底商改造比较顺利。
+<svg viewBox="0 0 24 24" fill="none" stroke="currentColor" stroke-width="2" stroke-linecap="round" stroke-linejoin="round" class="feather feather-chevron-right"><polyline points="9 18 15 12 9 6"/></svg></nav><h1 class="post-title entry-hint-parent">郭氏祠堂（光厚堂）</h1><div class=post-meta><span title='2026-11-14 00:00:00 +0000 UTC'>November 14, 2026</span>&nbsp;·&nbsp;<span>1 min</span></div></header><figure class=entry-cover><img loading=eager src=https://citang-database.netlify.app/images/guoshi-full.png alt=郭氏祠堂（光厚堂）></figure><div class="post-content md-content"><h2 id=祠堂简介>祠堂简介<a hidden class=anchor aria-hidden=true href=#祠堂简介>#</a></h2><p>光厚堂并无久远的历史，也并无重修的经历，于2021年修建完成。该祠堂由郭能俊主持，利用郭氏族谱（2011年新编）中的家族资源捐款修建而成。</p><p>祠堂修建的主要原因是由于家族庞大，过年拜年过于繁琐。为了在加强家族联系的同时，节省不必要的麻烦，家族成员决定修建光厚堂。祠堂选址在路边小区底商处，买下两个底商进行改造。在光厚堂修建后，周边陆续有吴家、罗家等家族祠堂修建。</p><p>目前，家族成员在重要节日齐聚一堂，一方面进行放鞭炮、祭拜先祖郭子仪等活动，更重要的是加强家族成员间的联系，增强家族的凝聚力。祠堂目前主要功能是把家族人聚在一起，并无乡村议事、公共管理等功能。</p><h2 id=建筑与历史变迁>建筑与历史变迁<a hidden class=anchor aria-hidden=true href=#建筑与历史变迁>#</a></h2><table><thead><tr><th style=text-align:left>时间</th><th style=text-align:left>事件</th></tr></thead><tbody><tr><td style=text-align:left>2021年</td><td style=text-align:left>由郭能俊主持，动用族谱资源捐款，买下两个底商改造修建完成</td></tr><tr><td style=text-align:left>2021年后</td><td style=text-align:left>周边陆续有吴家、罗家等家族祠堂修建</td></tr></tbody></table><h2 id=采访记录>采访记录<a hidden class=anchor aria-hidden=true href=#采访记录>#</a></h2><h3 id=采访一>采访一<a hidden class=anchor aria-hidden=true href=#采访一>#</a></h3><p><strong>时间</strong>：2026年2月26日<br><strong>地点</strong>：江西省九江市郭氏祠堂（光厚堂）<br><strong>采访者</strong>：郭雨乐<br><strong>受访者</strong>：郭能俊（祖父）、郭御风（父亲）、郭皓帆（孩子）、陈瑜（母亲）一家三代</p><h4 id=1-您对这个祠堂的修建历史了解多少是否了解它的修建背景修建时间由谁主持修建资金来源是否有相关传说或老辈人口述记载>1. 您对这个祠堂的修建历史了解多少？（是否了解它的修建背景，修建时间，由谁主持修建，资金来源，是否有相关传说或老辈人口述记载？）<a hidden class=anchor aria-hidden=true href=#1-您对这个祠堂的修建历史了解多少是否了解它的修建背景修建时间由谁主持修建资金来源是否有相关传说或老辈人口述记载>#</a></h4><p><strong>郭御风表示</strong>，祠堂修建主要是由于家族庞大，过年拜年过于繁琐，为了在加强家族联系的同时，节省不必要的麻烦，修建光厚堂。当时向民政报备，环节并不复杂，买下两个底商改造比较顺利。
 <strong>郭能俊、郭御风父子</strong>对于这部分历史非常了解，在介绍时非常热情，希望家族的声望能够远扬。但<strong>郭皓帆</strong>对这一部分历史却不很了解，甚至比较抵触过年回老家的繁琐。在他的印象里，只有每年零星的几次祠堂祭祖活动，对于祠堂的修建资金以及修建原因等问题，可以说是一无所知。有趣的是，在采访过程中，年龄尚小的郭皓帆的表弟对家族历史表现出了浓厚的兴趣，但不知是因为他年龄尚小还是因为他来自外姓，郭能俊并不打算向他介绍郭家历史。</p><h4 id=2-您了解这座祠堂的历史吗是听他人讲述还是通过其他渠道书籍网络等知晓的>2. 您了解这座祠堂的历史吗？是听他人讲述，还是通过其他渠道（书籍、网络等）知晓的？<a hidden class=anchor aria-hidden=true href=#2-您了解这座祠堂的历史吗是听他人讲述还是通过其他渠道书籍网络等知晓的>#</a></h4><p>（同第一题，长辈非常了解并主持修建，郭皓帆基本不了解）</p><h4 id=3-早年祠堂的建筑原貌布局装饰等及内部规矩是怎样的>3. 早年祠堂的建筑原貌（布局、装饰等）及内部规矩是怎样的？<a hidden class=anchor aria-hidden=true href=#3-早年祠堂的建筑原貌布局装饰等及内部规矩是怎样的>#</a></h4><p>（光厚堂为2021年新建底商改造，无早年原貌）</p><h4 id=4-这个祠堂过去功能是什么主要会举行什么活动比如祭祖族里的红白事有之前办但现在不办了的活动吗以及为什么不办了呢有没有让您记了一辈子的热闹场景或难忘的事儿祠堂活动带给你的最深刻文化记忆是什么>4. 这个祠堂过去功能是什么？主要会举行什么活动，（比如祭祖、族里的红白事），有之前办但现在不办了的活动吗？（以及为什么不办了呢）有没有让您记了一辈子的热闹场景或难忘的事儿？（祠堂活动带给你的最深刻文化记忆是什么？）<a hidden class=anchor aria-hidden=true href=#4-这个祠堂过去功能是什么主要会举行什么活动比如祭祖族里的红白事有之前办但现在不办了的活动吗以及为什么不办了呢有没有让您记了一辈子的热闹场景或难忘的事儿祠堂活动带给你的最深刻文化记忆是什么>#</a></h4><p>（新建祠堂，无过去活动）</p><h4 id=5-这个祠堂经历了怎样的变迁是否有挪作他用祠堂有没有被改成仓库学堂等其他用途的情况重修现在祠堂的建筑外观内部设施与以前比有什么变化的情况>5. 这个祠堂经历了怎样的变迁，是否有挪作他用（祠堂有没有被改成仓库、学堂等其他用途的情况），重修（现在祠堂的建筑外观、内部设施与以前比有什么变化）的情况？<a hidden class=anchor aria-hidden=true href=#5-这个祠堂经历了怎样的变迁是否有挪作他用祠堂有没有被改成仓库学堂等其他用途的情况重修现在祠堂的建筑外观内部设施与以前比有什么变化的情况>#</a></h4><p>早些年，现在宗祠的所在地叫“郭家湾”，是郭姓聚居地。但随着时间的推移和改革开放等政策的颁布，人们已经分散在九江市的各个地区甚至外地。买下底商改造为祠堂后，周边也陆续建起了其他家族的祠堂。</p><h4 id=6-目前祠堂还会办哪些活动比如祭祖节日聚会等大概多久办一次您平时愿意参与祠堂活动吗>6. 目前祠堂还会办哪些活动？比如祭祖、节日聚会等，大概多久办一次？您平时愿意参与祠堂活动吗？<a hidden class=anchor aria-hidden=true href=#6-目前祠堂还会办哪些活动比如祭祖节日聚会等大概多久办一次您平时愿意参与祠堂活动吗>#</a></h4><p>祠堂目前仅在过年期间举办祭祖活动，但实际上的、更重要的目的是把一大家族的人聚在一起庆祝新年，进行放鞭炮、祭拜先祖郭子仪等活动。
 对于<strong>郭能俊、郭御风父子</strong>，他们是很乐意参与的，实际上也是他们二位主持的祠堂修建和这些活动。但对于<strong>郭皓帆</strong>，对参与这些活动兴趣不大，更多的是被其父亲强迫参加。</p><h4 id=7-祠堂目前承担着怎样的功能祠堂在乡村集体议事邻里关系联结公共事务协调中的作用发生了哪些变化现有保留的功能对村民生活仍有哪些实际价值>7. 祠堂目前承担着怎样的功能？祠堂在乡村集体议事、邻里关系联结、公共事务协调中的作用发生了哪些变化？现有保留的功能，对村民生活仍有哪些实际价值？<a hidden class=anchor aria-hidden=true href=#7-祠堂目前承担着怎样的功能祠堂在乡村集体议事邻里关系联结公共事务协调中的作用发生了哪些变化现有保留的功能对村民生活仍有哪些实际价值>#</a></h4><p>祠堂目前主要功能是把家族人聚在一起，举行祭祖活动。除此之外，并无乡村议事、公共管理等功能。因为人们已经分散在各个地区甚至外地，所以现在祠堂并不存在对村民生活的价值，而只是对郭姓家族起到增强凝聚力的作用。</p><h4 id=8-您是否了解祠堂的管理模式和条规由谁主持管理宗祠规定>8. 您是否了解祠堂的管理模式和条规？（由谁主持管理，宗祠规定）<a hidden class=anchor aria-hidden=true href=#8-您是否了解祠堂的管理模式和条规由谁主持管理宗祠规定>#</a></h4><p>祠堂的公约张贴在祠堂大门旁，内容除了对祠堂的物品保管、用电安全、清洁卫生等琐碎规定外，还有对宗亲过世设立灵位的规定。对于祠堂的日常管理，采用分月排班的方式，即每月由一名宗族成员进行管理。排班表张贴在祠堂内部。
 值得注意的是，负责管理祠堂的均为老年人，这与年轻人大多在外务工有关。对这些信息，家族成员的了解情况与上面大同小异，郭皓帆仍几乎不了解。</p><h4 id=9-您觉得祠堂对你来说只是个宗族建筑还是有着特别的意义有没有家族归属感认同感是否愿意主动去了解祠堂>9. 您觉得祠堂对你来说，只是个宗族建筑，还是有着特别的意义？（有没有家族归属感、认同感，是否愿意主动去了解祠堂）<a hidden class=anchor aria-hidden=true href=#9-您觉得祠堂对你来说只是个宗族建筑还是有着特别的意义有没有家族归属感认同感是否愿意主动去了解祠堂>#</a></h4><p>对于<strong>郭能俊和郭御风父子</strong>，他们很乐意参与并主持活动，希望家族声望远扬。而对于<strong>郭皓帆</strong>，则认为他并无归属感，主要源于从小在长沙、天津等多地上学，不止祠堂，乃至家乡他都并无归属感。对于祠堂本身他也没有兴趣进行了解。</p><h4 id=10-对于管理人员也可以问其他群体祠堂目前仍有部分功能在运转日常的基础维护如建筑简易修缮环境清理残留功能的组织由哪些主体负责村里不同年龄群体参与祠堂相关事务的比例及形式如特定活动参与零星协助如何>10. （对于管理人员，也可以问其他群体）祠堂目前仍有部分功能在运转，日常的基础维护（如建筑简易修缮、环境清理）、残留功能的组织由哪些主体负责？村里不同年龄群体参与祠堂相关事务的比例及形式（如特定活动参与、零星协助）如何？<a hidden class=anchor aria-hidden=true href=#10-对于管理人员也可以问其他群体祠堂目前仍有部分功能在运转日常的基础维护如建筑简易修缮环境清理残留功能的组织由哪些主体负责村里不同年龄群体参与祠堂相关事务的比例及形式如特定活动参与零星协助如何>#</a></h4><p><strong>郭能俊</strong>表示，因为花销很小，所以并没有什么硬性规定。日常的清理和修缮主要由每个月的值班人员负责。由于值班人员均为老年群体，祠堂事务自然老年群体参与较多。</p><h4 id=11-您觉得现在年轻人很少关注祠堂对家史族规不了解主要是没兴趣缺乏传播渠道还是其他原因>11. 您觉得现在年轻人很少关注祠堂，对家史、族规不了解，主要是没兴趣、缺乏传播渠道，还是其他原因？<a hidden class=anchor aria-hidden=true href=#11-您觉得现在年轻人很少关注祠堂对家史族规不了解主要是没兴趣缺乏传播渠道还是其他原因>#</a></h4><p><strong>陈瑜</strong>认为现在年轻人是因为没有兴趣才不关注祠堂。

diff --git a/public/citang/index.html b/public/citang/index.html
@@ -17,7 +17,7 @@
 5. 目前祠堂还会办哪些活动？比如祭祖、节日聚会等，大概多久办一次？您平时愿意参与祠堂活动吗？ 清明会：清明会的内容，主要是祭祖，除了聚餐、叙旧、议事外，最重要的环节就是评选家庭“十大孝星”，以鼓励族人敬老。旧时以惩罚为主，而今以奖励为主。一个半世纪以来，董家祠堂见证了孝文化在这里的传承和变化；一年一次，作为组织者每年都参加，每年大概都有三四百人参加。
 6. 祠堂目前承担着怎样的功能？祠堂在乡村集体议事、邻里关系联结、公共事务协调中的作用发生了哪些变化？现有保留的功能，对村民生活仍有哪些实际价值？ 祭祖，聚会，议事。没太大变化；祭祖，开办清明会。
 7. 您是否了解祠堂的管理模式和条规？（由谁主持管理，宗祠规定） 了解，由恩阳区文物管理理事会（20世纪80年代建立），现已第三任会长，宗祠规定：理事会讨论并公示： 爱祖国 重科学 促和谐；守法纪 树新风 立诚信。 尚礼义 勤耕读 兴农商；操家务 尚节俭 禁赌娼。 祀祖先 敬父母 尊师长；亲兄弟 和妯娌 睦近邻。 抚子女 严教化 讲文明；不持强 不欺弱 扶贫危。 扬正气 驱邪恶 息纷争；戒凶狠 谨言行 远是非。
-...</p></div><footer class=entry-footer><span title='2026-11-14 00:00:00 +0000 UTC'>November 14, 2026</span>&nbsp;·&nbsp;<span>1 min</span></footer><a class=entry-link aria-label="post link to 董氏祠堂" href=https://citang-database.netlify.app/citang/dongshi-citang/></a></article><article class=post-entry><figure class=entry-cover><img loading=lazy src=https://citang-database.netlify.app/images/guoshi-v2.png alt=郭氏祠堂（光厚堂）></figure><header class=entry-header><h2 class=entry-hint-parent>郭氏祠堂（光厚堂）</h2></header><div class=entry-content><p>祠堂简介 光厚堂并无久远的历史，也并无重修的经历，于2021年修建完成。该祠堂由郭能俊主持，利用郭氏族谱（2011年新编）中的家族资源捐款修建而成。
+...</p></div><footer class=entry-footer><span title='2026-11-14 00:00:00 +0000 UTC'>November 14, 2026</span>&nbsp;·&nbsp;<span>1 min</span></footer><a class=entry-link aria-label="post link to 董氏祠堂" href=https://citang-database.netlify.app/citang/dongshi-citang/></a></article><article class=post-entry><figure class=entry-cover><img loading=lazy src=https://citang-database.netlify.app/images/guoshi-full.png alt=郭氏祠堂（光厚堂）></figure><header class=entry-header><h2 class=entry-hint-parent>郭氏祠堂（光厚堂）</h2></header><div class=entry-content><p>祠堂简介 光厚堂并无久远的历史，也并无重修的经历，于2021年修建完成。该祠堂由郭能俊主持，利用郭氏族谱（2011年新编）中的家族资源捐款修建而成。
 祠堂修建的主要原因是由于家族庞大，过年拜年过于繁琐。为了在加强家族联系的同时，节省不必要的麻烦，家族成员决定修建光厚堂。祠堂选址在路边小区底商处，买下两个底商进行改造。在光厚堂修建后，周边陆续有吴家、罗家等家族祠堂修建。
 目前，家族成员在重要节日齐聚一堂，一方面进行放鞭炮、祭拜先祖郭子仪等活动，更重要的是加强家族成员间的联系，增强家族的凝聚力。祠堂目前主要功能是把家族人聚在一起，并无乡村议事、公共管理等功能。
 建筑与历史变迁 时间 事件 2021年 由郭能俊主持，动用族谱资源捐款，买下两个底商改造修建完成 2021年后 周边陆续有吴家、罗家等家族祠堂修建 采访记录 采访一 时间：2026年2月26日

diff --git a/public/index.html b/public/index.html
@@ -16,7 +16,7 @@
 5. 目前祠堂还会办哪些活动？比如祭祖、节日聚会等，大概多久办一次？您平时愿意参与祠堂活动吗？ 清明会：清明会的内容，主要是祭祖，除了聚餐、叙旧、议事外，最重要的环节就是评选家庭“十大孝星”，以鼓励族人敬老。旧时以惩罚为主，而今以奖励为主。一个半世纪以来，董家祠堂见证了孝文化在这里的传承和变化；一年一次，作为组织者每年都参加，每年大概都有三四百人参加。
 6. 祠堂目前承担着怎样的功能？祠堂在乡村集体议事、邻里关系联结、公共事务协调中的作用发生了哪些变化？现有保留的功能，对村民生活仍有哪些实际价值？ 祭祖，聚会，议事。没太大变化；祭祖，开办清明会。
 7. 您是否了解祠堂的管理模式和条规？（由谁主持管理，宗祠规定） 了解，由恩阳区文物管理理事会（20世纪80年代建立），现已第三任会长，宗祠规定：理事会讨论并公示： 爱祖国 重科学 促和谐；守法纪 树新风 立诚信。 尚礼义 勤耕读 兴农商；操家务 尚节俭 禁赌娼。 祀祖先 敬父母 尊师长；亲兄弟 和妯娌 睦近邻。 抚子女 严教化 讲文明；不持强 不欺弱 扶贫危。 扬正气 驱邪恶 息纷争；戒凶狠 谨言行 远是非。
-...</p></div><footer class=entry-footer><span title='2026-11-14 00:00:00 +0000 UTC'>November 14, 2026</span>&nbsp;·&nbsp;<span>1 min</span></footer><a class=entry-link aria-label="post link to 董氏祠堂" href=https://citang-database.netlify.app/citang/dongshi-citang/></a></article><article class=post-entry><figure class=entry-cover><img loading=lazy src=https://citang-database.netlify.app/images/guoshi-v2.png alt=郭氏祠堂（光厚堂）></figure><header class=entry-header><h2 class=entry-hint-parent>郭氏祠堂（光厚堂）</h2></header><div class=entry-content><p>祠堂简介 光厚堂并无久远的历史，也并无重修的经历，于2021年修建完成。该祠堂由郭能俊主持，利用郭氏族谱（2011年新编）中的家族资源捐款修建而成。
+...</p></div><footer class=entry-footer><span title='2026-11-14 00:00:00 +0000 UTC'>November 14, 2026</span>&nbsp;·&nbsp;<span>1 min</span></footer><a class=entry-link aria-label="post link to 董氏祠堂" href=https://citang-database.netlify.app/citang/dongshi-citang/></a></article><article class=post-entry><figure class=entry-cover><img loading=lazy src=https://citang-database.netlify.app/images/guoshi-full.png alt=郭氏祠堂（光厚堂）></figure><header class=entry-header><h2 class=entry-hint-parent>郭氏祠堂（光厚堂）</h2></header><div class=entry-content><p>祠堂简介 光厚堂并无久远的历史，也并无重修的经历，于2021年修建完成。该祠堂由郭能俊主持，利用郭氏族谱（2011年新编）中的家族资源捐款修建而成。
 祠堂修建的主要原因是由于家族庞大，过年拜年过于繁琐。为了在加强家族联系的同时，节省不必要的麻烦，家族成员决定修建光厚堂。祠堂选址在路边小区底商处，买下两个底商进行改造。在光厚堂修建后，周边陆续有吴家、罗家等家族祠堂修建。
 目前，家族成员在重要节日齐聚一堂，一方面进行放鞭炮、祭拜先祖郭子仪等活动，更重要的是加强家族成员间的联系，增强家族的凝聚力。祠堂目前主要功能是把家族人聚在一起，并无乡村议事、公共管理等功能。
 建筑与历史变迁 时间 事件 2021年 由郭能俊主持，动用族谱资源捐款，买下两个底商改造修建完成 2021年后 周边陆续有吴家、罗家等家族祠堂修建 采访记录 采访一 时间：2026年2月26日

diff --git a/content/citang/guoshi-citang.md b/content/citang/guoshi-citang.md
@@ -7,7 +7,7 @@ era: "2021年"
 protection: "未定级"
 surname: "郭"
 cover:
-  image: "/images/guoshi-v2.png"
+  image: "/images/guoshi-full.png"
   alt: "郭氏祠堂（光厚堂）"
   hidden: false
 ---
